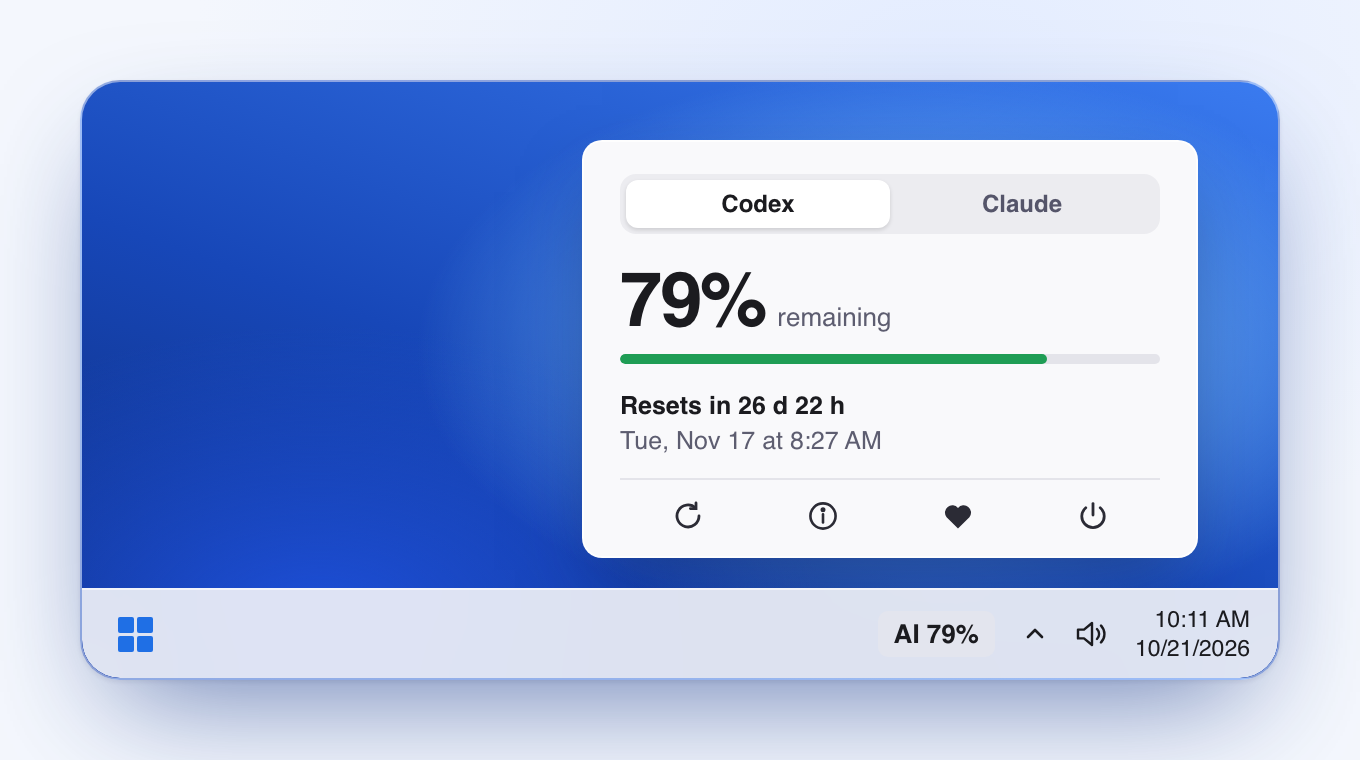
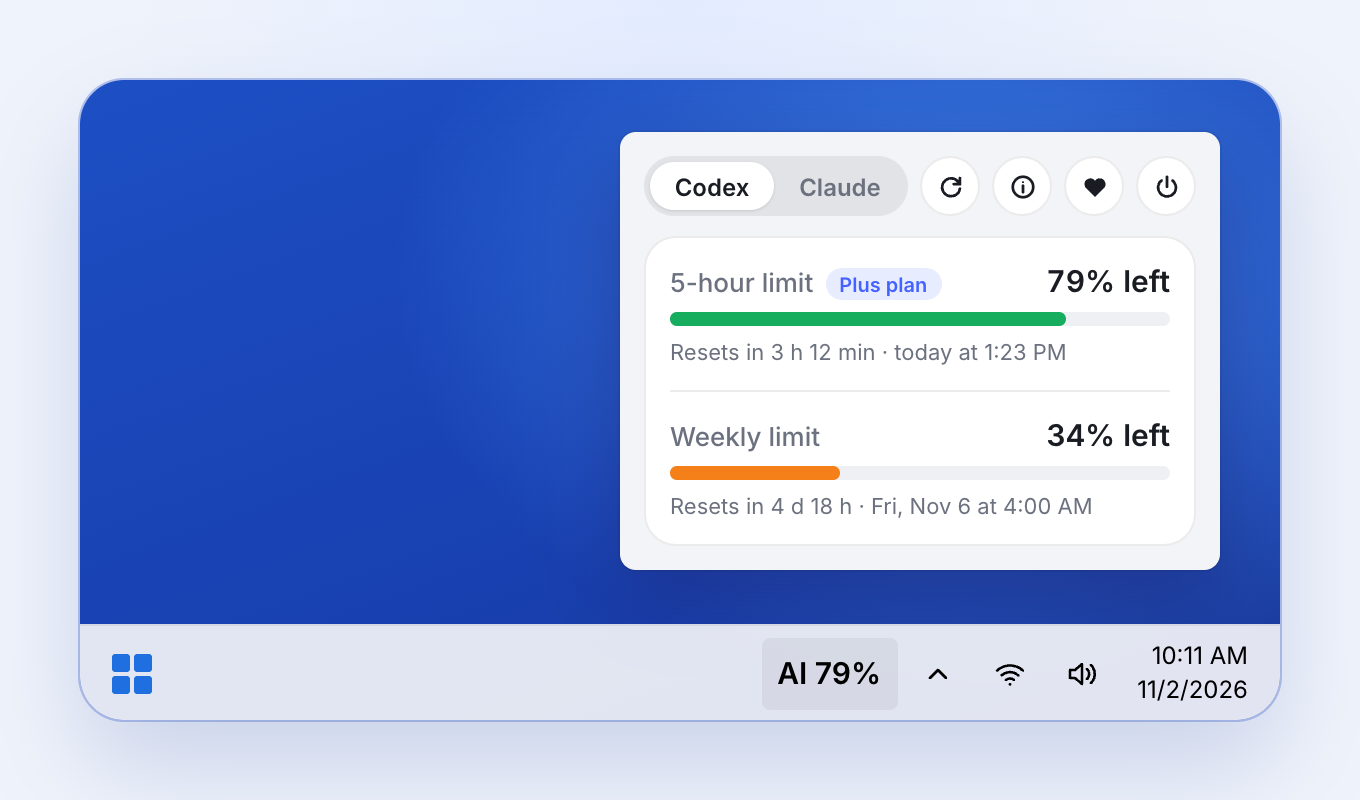
README: new screenshot with the 5-hour and weekly limits

Changed region(s): [[0.0309, 0.0908, 0.9574, 0.9382], [0.7103, 0.2118, 0.7721, 0.3026], [0.6794, 0.2118, 0.7103, 0.2421]]

diff --git a/README.md b/README.md
@@ -6,7 +6,7 @@
 
 No account, no analytics; your token only goes to Anthropic or OpenAI.
 
-![AI Meter on the Windows taskbar showing 79% of Codex usage remaining and when it resets](docs/ai-meter-tray.png)
+![AI Meter on the Windows taskbar: 79% of the Codex 5-hour limit and 34% of the weekly limit left, with reset times](docs/ai-meter-tray.png)
 
 AI Meter is a free, open-source GuruHat tray app. It shows how much of your current usage window is left as "AI 79%" on the taskbar, next to the system tray (black on a light taskbar, white on a dark one) and shows when the window resets. It refreshes every five minutes using the sign-in you already have.
 
